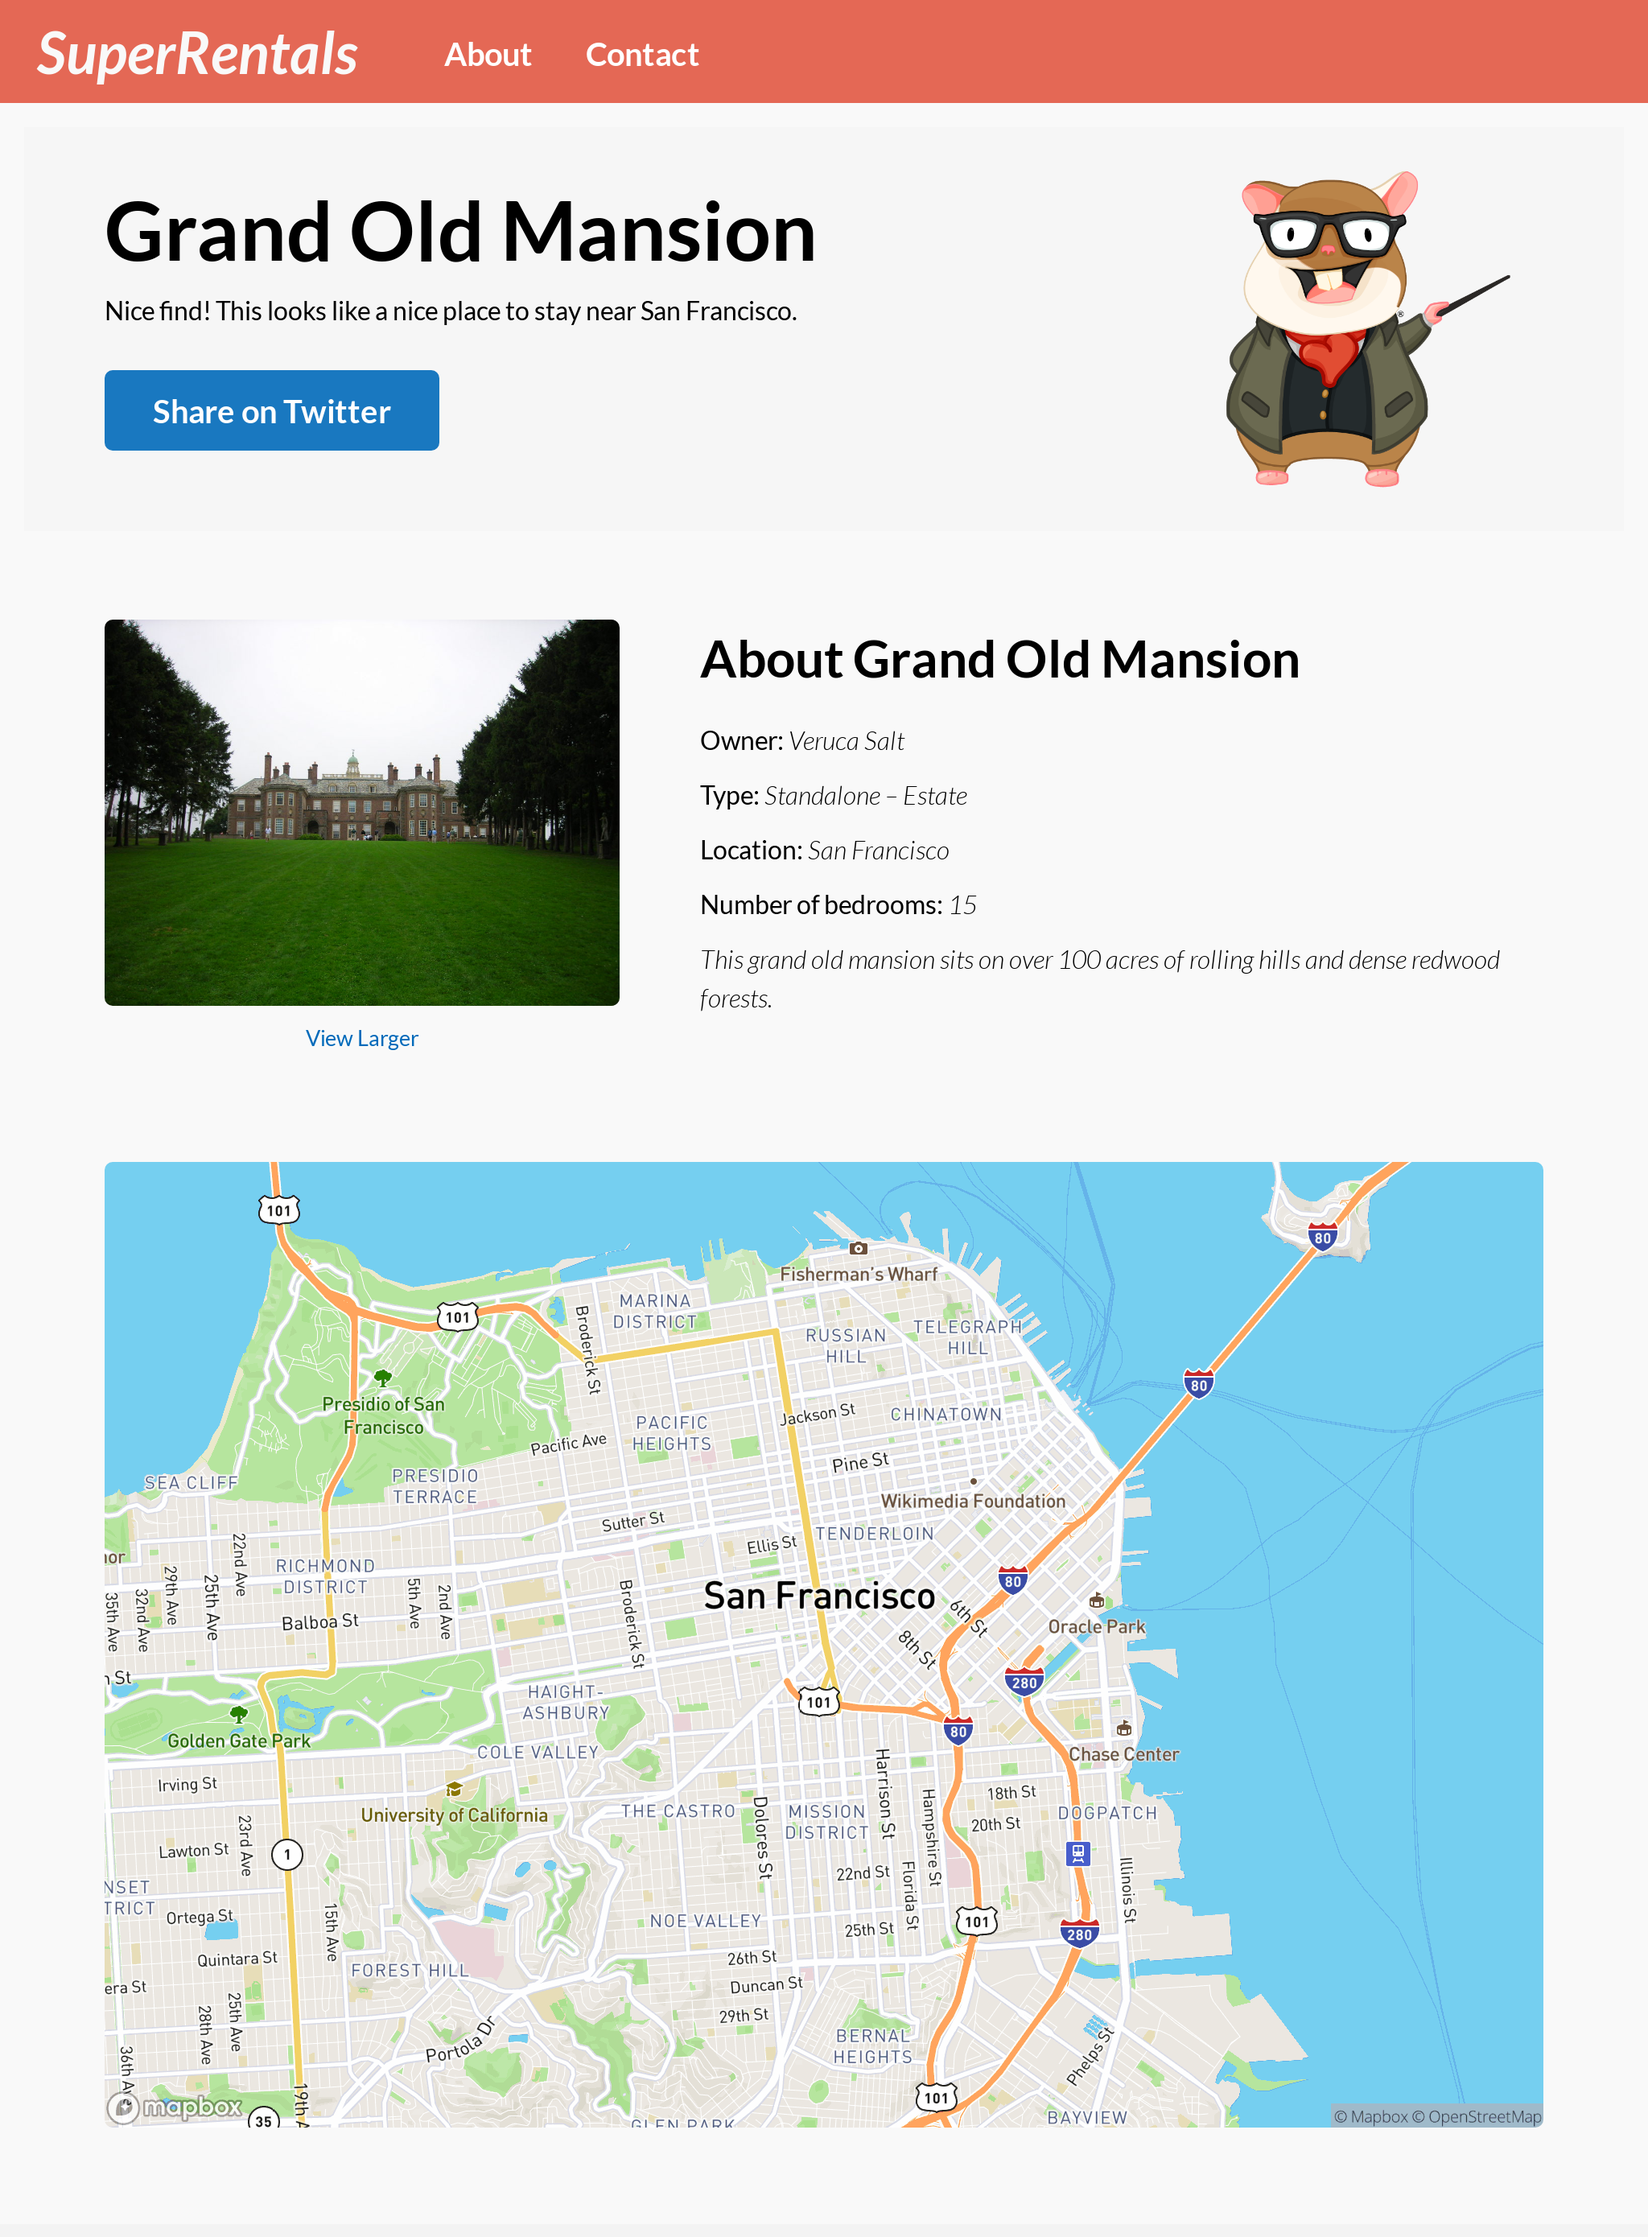
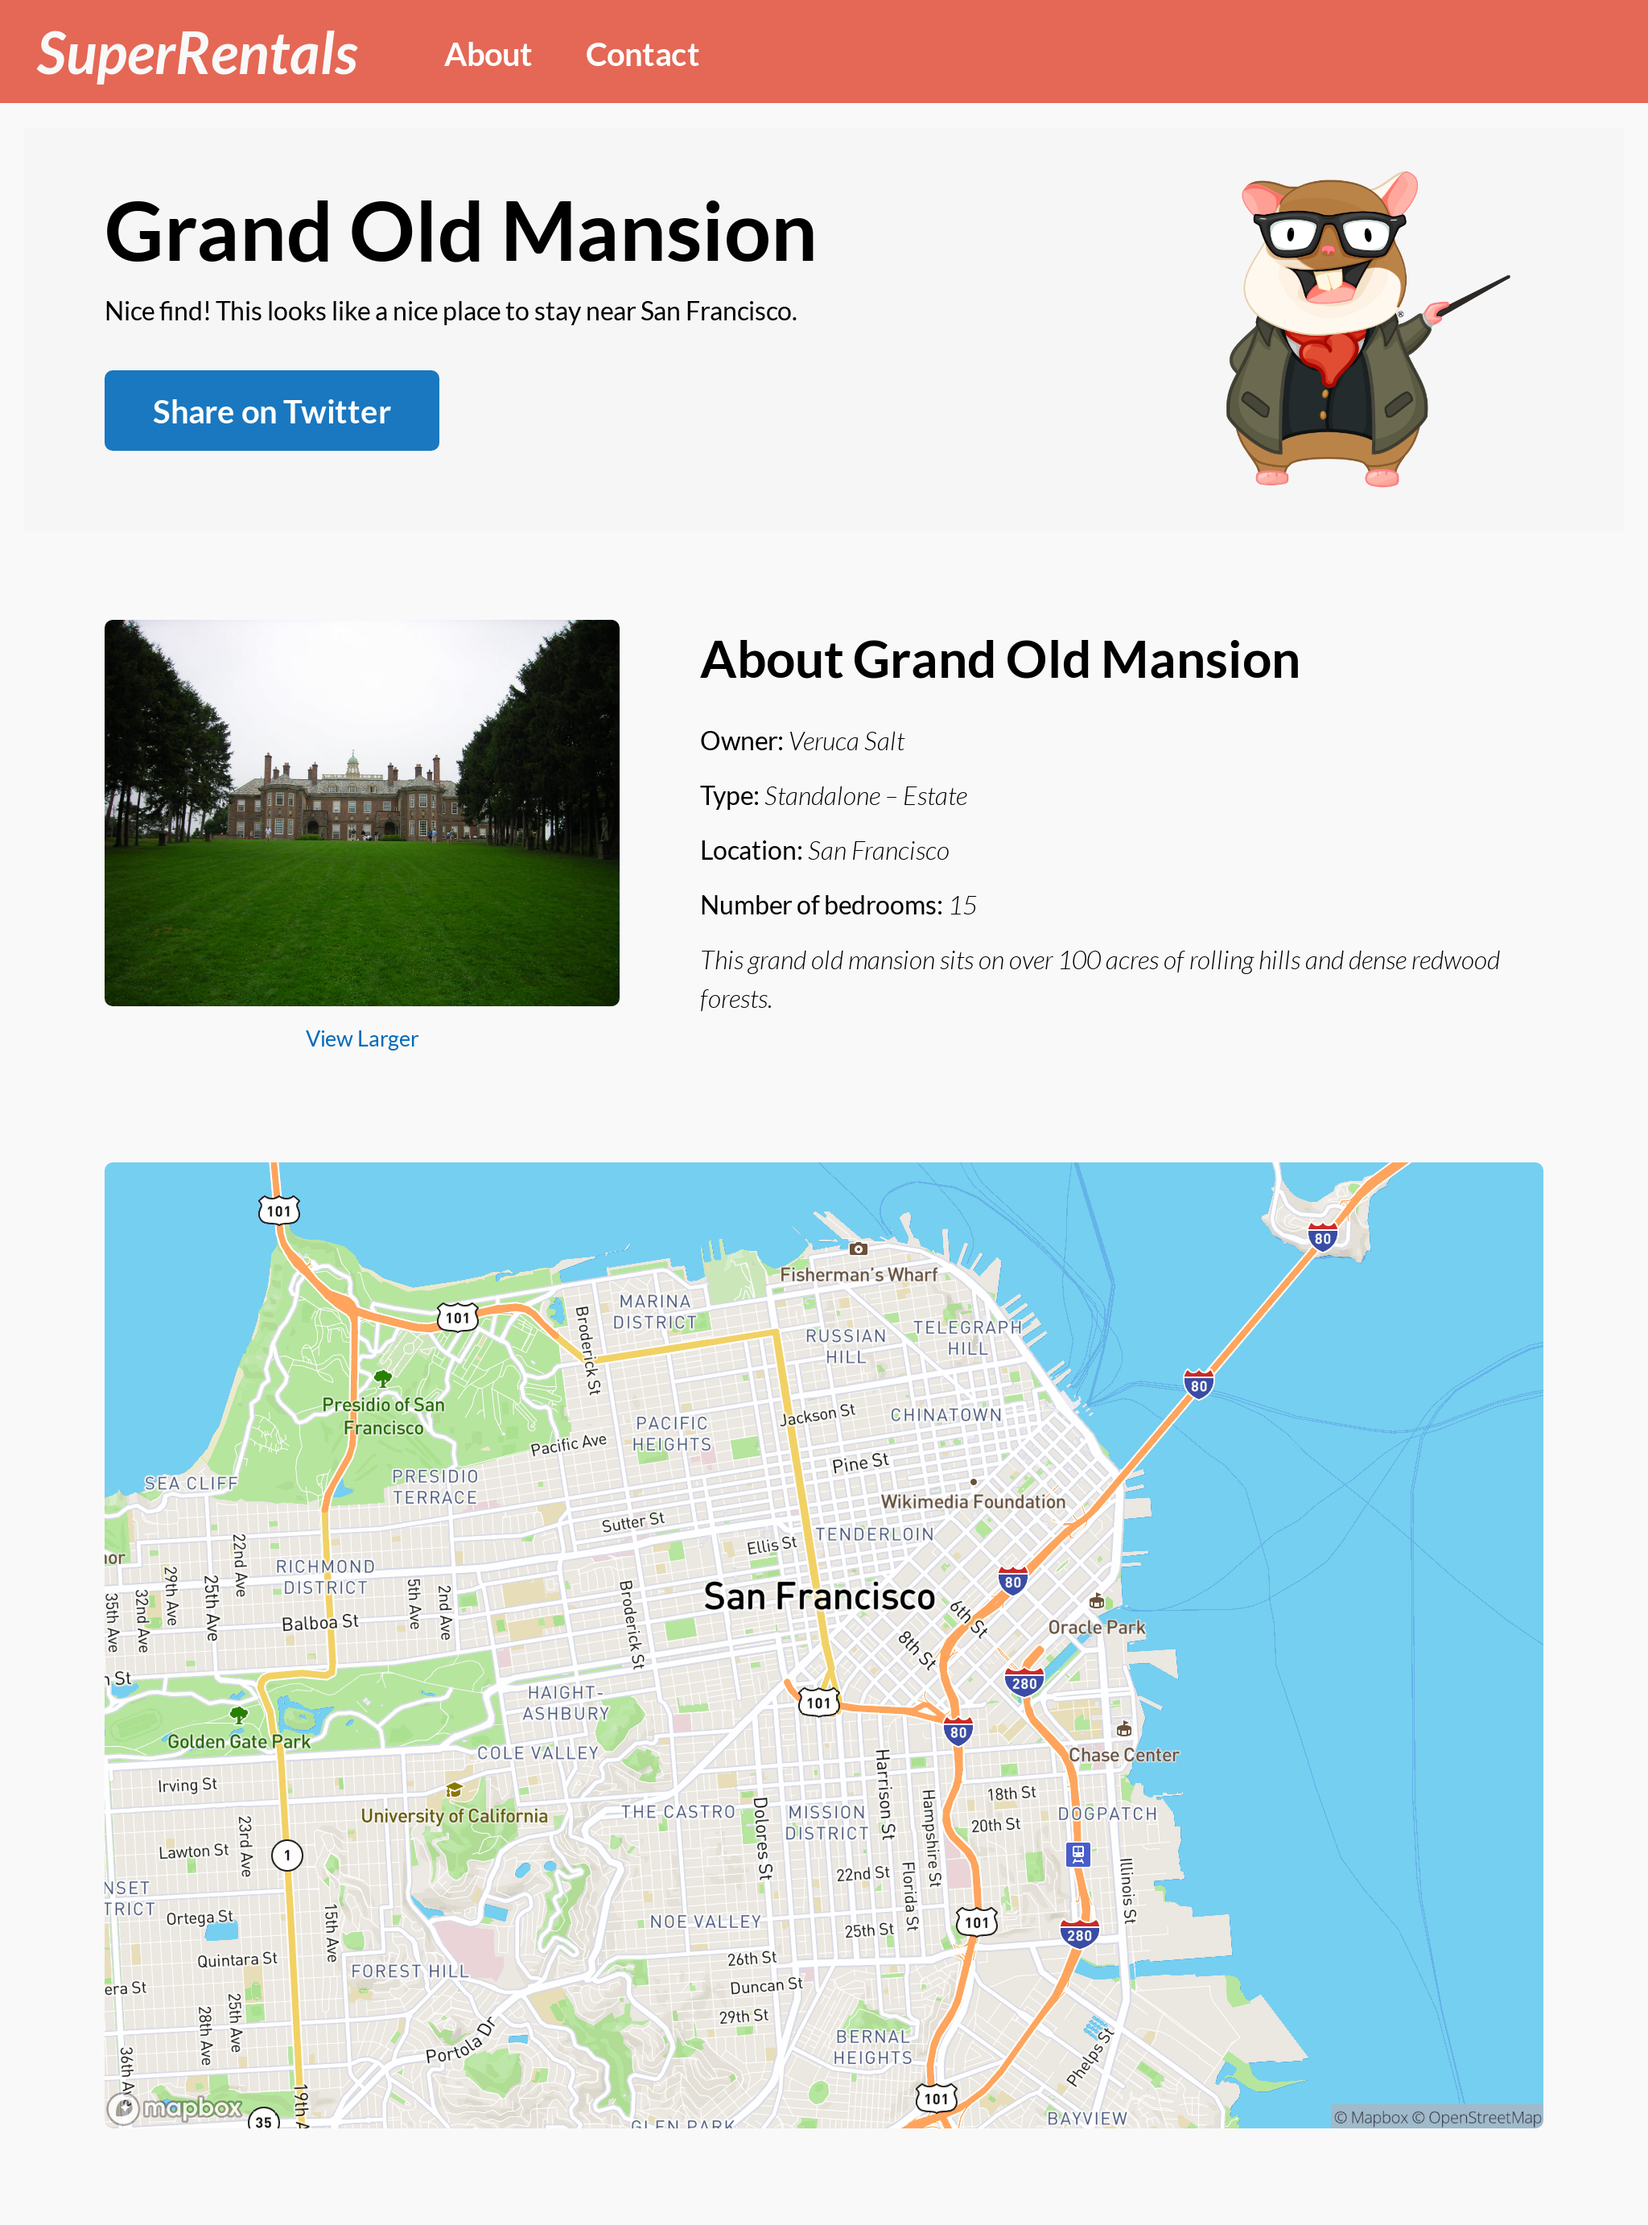
[CRON] Thursday May 04, 2023
---

Commit:  ember-learn/super-rentals-tutorial@448d74a683810513d5c0d06b1ff99f3f48567cdd
Script:  https://github.com/ember-learn/super-rentals-tutorial/blob/448d74a683810513d5c0d06b1ff99f3f48567cdd/.github/workflows/build.yml
Logs:    https://github.com/ember-learn/super-rentals-tutorial/commit/448d74a683810513d5c0d06b1ff99f3f48567cdd/checks

diff --git a/guides/release/tutorial/part-2/ember-data.md b/guides/release/tutorial/part-2/ember-data.md
@@ -353,6 +353,6 @@ The UI works exactly the same as before as well, just with much less code!
 
 <img src="/images/tutorial/part-2/ember-data/homepage@2x.png" alt="The homepage works exactly the same as before, but with much less code!" width="1024" height="1130">
 
-<img src="/images/tutorial/part-2/ember-data/detailed@2x.png" alt="The details page works exactly the same as before, but with much less code!" width="1024" height="1390">
+<img src="/images/tutorial/part-2/ember-data/detailed@2x.png" alt="The details page works exactly the same as before, but with much less code!" width="1024" height="1382">
 
 Ember Data offers many, many features (like managing the _relationships_ between different models) and there's a lot more we can learn about it. For example, if your backend's have some inconsistencies across different endpoints, Ember Data allows you to define more specific, per-model adapters and serializers too! We are just scratching the surface here. If you want to learn more about Ember Data, check out [its own dedicated section](../../../models/) in the guides!
